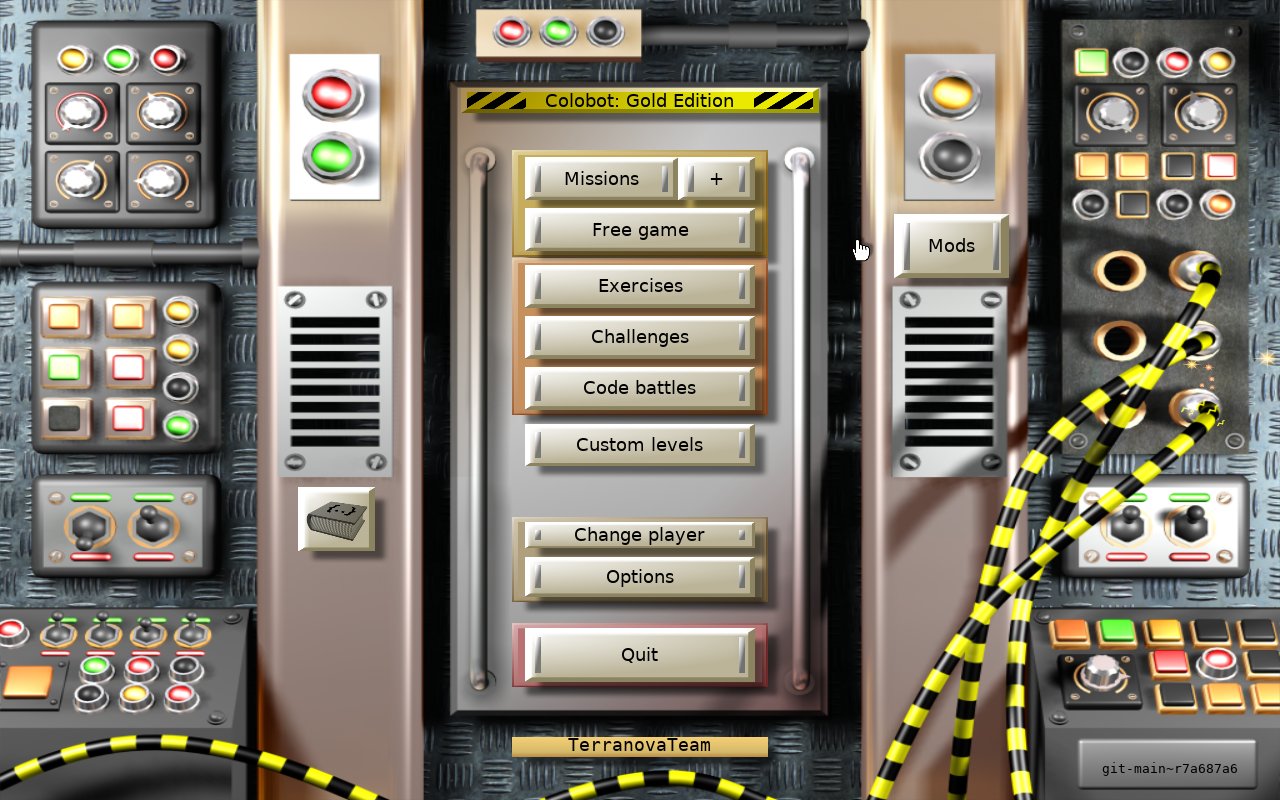
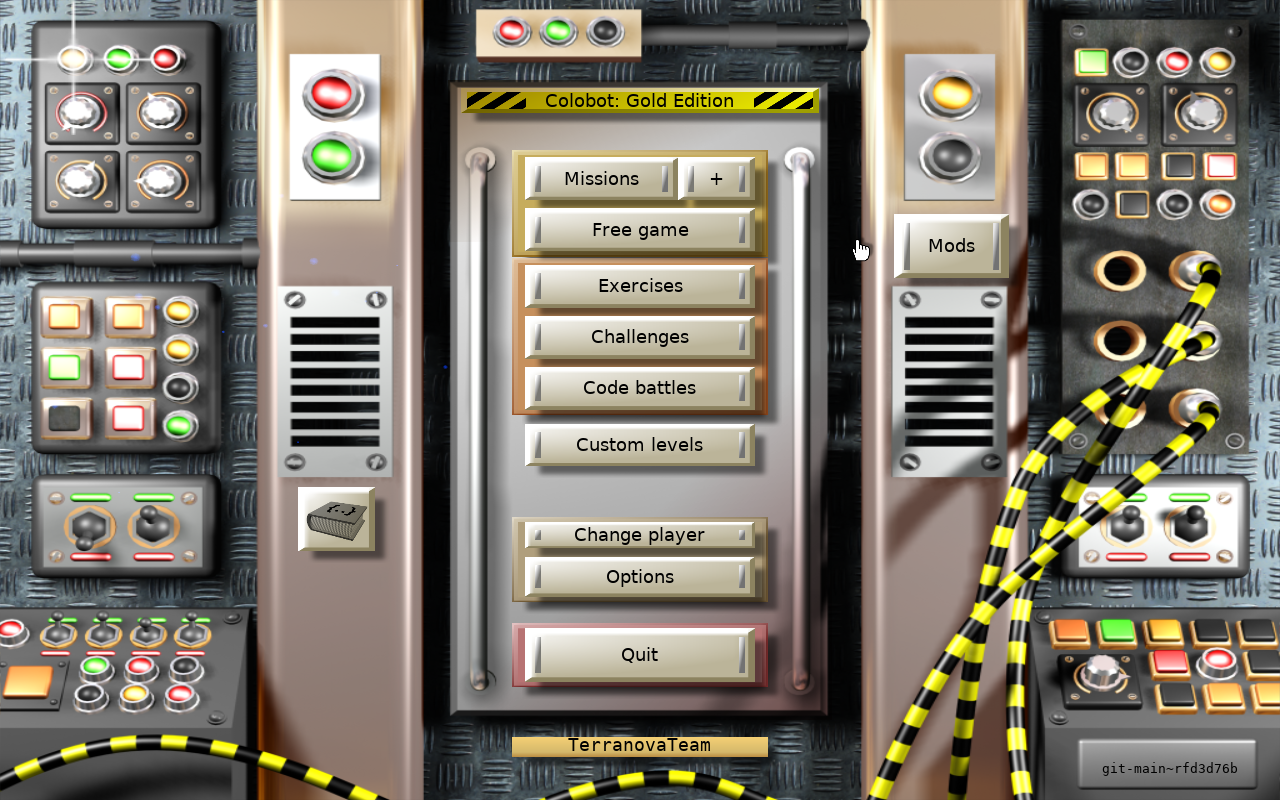
docs: WP13 load-speed before/after, Gemini suggestions triage, screenshots

diff --git a/docs/optimization-suggestions-gemini.md b/docs/optimization-suggestions-gemini.md
@@ -1,0 +1,123 @@
+A detailed implementation plan has been written to the [optimization plan artifact](local-file). Below is the prioritized analysis and concrete optimization plan for the Colobot browser port.
+
+---
+
+# Colobot Web: Prioritized Performance Optimization Plan
+
+### 1. Bypass Blank 9-Second Welcome Sequence (`CScreenWelcome`) on Web
+* **What**: On `__EMSCRIPTEN__`, immediately bypass or auto-dismiss `CScreenWelcome` to transition directly to the player dialog and main menu. Currently, the engine runs three consecutive 3.0-second welcome screens that draw no splash image (because `intro*.png` was omitted from data packaging in [`build.mjs`](../tools/build-data/build.mjs#L80)) while swallowing user input.
+* **Why**: **Direct reduction of ~8,500 ms** in time-to-interactive menu (drops from ~9.5 s to ~1.0 s). 0 bytes transferred.
+* **Exact files**: [`src/colobot-base/src/app/app.cpp`](../src/colobot-base/src/app/app.cpp#L1040-L1150), `src/colobot-base/src/ui/screen/screen_welcome.cpp`
+* **Risk**: **Very low**. The splash images are already excluded from the web distribution; `CScreenWelcome` is an empty delay on the web.
+
+---
+
+### 2. Lean `boot.pak` Layout: Evict Non-Essential Menu Assets
+* **What**: Restrict `boot.pak` strictly to assets required for first paint and the initial player dialog / main menu screen (fonts, cursor, core UI skin, button icons, essential shaders). Move level preview images (`levels/*/*.png`, thumbnails) and secondary interface art into loose files or level packs.
+* **Why**: Shrinks `boot.pak` from **9.3 MB down to ~2.0–2.5 MB** (~70% reduction, saving **~7 MB raw / ~2.5 MB gzipped**). On a standard 30 Mbps connection, this shaves **~600–1,200 ms** off the download and `DecompressionStream` decompression pipeline, directly advancing time-to-first-paint.
+* **Exact files**: [`tools/build-data/build.mjs`](../tools/build-data/build.mjs#L78-L96)
+* **Risk**: **Low**. If an asset removed from `boot.pak` is accessed later, [`web_archiver.c`](../src/colobot-base/src/common/resources/web_archiver.c#L116-L137) falls back to fetching it on demand from the manifest.
+
+---
+
+### 3. Pre-compress Assets & Wasm with Brotli (.br) Beside/Instead of Gzip
+* **What**: Pre-compress `colobot.wasm`, `boot.pak`, and loose files with Brotli (`brotli -q 11` or Node `zlib.brotliCompressSync`) during data assembly. Serve with `Content-Encoding: br` in static server configs / `_headers`, and fall back to `DecompressionStream('deflate-raw')` or gzip if needed.
+* **Why**: Brotli q11 provides 15–25% higher compression ratio over gzip -9 on Wasm and archive data. Saves **~400 KB** on `colobot.wasm` (1.6 MB -> ~1.2 MB) and **~600 KB–1 MB** on `boot.pak`, saving **~200–500 ms** in wire transfer time on cold loads.
+* **Exact files**: [`tools/build-data/build.mjs`](../tools/build-data/build.mjs#L129-L135), [`scripts/assemble-dist.sh`](../scripts/assemble-dist.sh), [`web/loader.js`](../web/loader.js#L64-L68), [`web/_headers`](../web/_headers#L5-L10)
+* **Risk**: **Very low**. Every modern browser supporting WebGPU and JSPI supports Brotli and `DecompressionStream`.
+
+---
+
+### 4. HTML Preload Hints for Startup Critical Path
+* **What**: Add `<link rel="modulepreload" href="loader.js">`, `<link rel="modulepreload" href="colobot.js">`, `<link rel="preload" href="colobot.wasm" as="fetch" crossorigin>`, `<link rel="preload" href="data/boot.pak.gz" as="fetch" crossorigin>`, and `<link rel="preload" href="data/manifest.json" as="fetch" crossorigin>` directly to `<head>` in `index.html`.
+* **Why**: Eliminates sequential discovery delay where the browser parses HTML, fetches `loader.js`, executes it, and only then starts the downloads for Wasm and data packs. Saves **~150–350 ms** (1 network RTT + JS parse time) on time-to-first-paint.
+* **Exact files**: [`web/index.html`](../web/index.html#L3-L8)
+* **Risk**: **None**. Standard declarative resource hints.
+
+---
+
+### 5. Fix Service Worker Manifest-Blocking Fetch on Data Requests
+* **What**: In `web/sw.js`, `loadHashes()` intercepts data requests and performs `await fetch('data/manifest.json', { cache: 'no-cache' })` over the network before allowing any `/data/*` request to proceed. Refactor `sw.js` to either precache/inline hashes during SW activation or stream asset requests without waiting on `manifest.json`.
+* **Why**: Removes a blocking **~50–200 ms** network round-trip on cold start and offline loads. Avoids SW interception stall on initial `boot.pak.gz` download.
+* **Exact files**: [`web/sw.js`](../web/sw.js#L6-L20)
+* **Risk**: **Low to medium**. Requires verifying cache invalidation when deploying new manifest versions.
+
+---
+
+### 6. Compiler Optimization Profile: `-Oz`, `-flto`, and Closure Compiler
+* **What**: Enable `COLOBOT_WEB_LTO=ON`, switch `COLOBOT_WEB_OPT` from `-O3` to `-Oz` (or `-Os`), and enable `COLOBOT_WEB_CLOSURE=ON` (`--closure 1`) in `CMakeLists.txt`.
+* **Why**: `-Oz` + `-flto` reduces Wasm binary size by **20–35%** (saving **1.0–1.5 MB uncompressed**, **~300–500 KB compressed**), while Closure shrinks `colobot.js` glue code by **~50–100 KB**. Decreases initial download time by **~150–400 ms** and speeds up V8 Liftoff / TurboFan compilation and memory usage.
+* **Exact files**: [`CMakeLists.txt`](../CMakeLists.txt#L34-L59), [`CMakeLists.txt`](../CMakeLists.txt#L84-L86)
+* **Risk**: **Low to medium**. Longer link times; must verify that `-Oz` does not adversely degrade CPU-heavy CBot simulation or physics loops compared to `-O3`.
+
+---
+
+### 7. Match System Preferred Canvas Format (`bgra8unorm`)
+* **What**: Accurately detect and apply `navigator.gpu.getPreferredCanvasFormat()` (`bgra8unorm` on macOS and most Chromium platforms) in [`wgpu_device.cpp`](../src/colobot-base/src/graphics/webgpu/wgpu_device.cpp#L228-L237) and align framebuffer targets.
+* **Why**: Resolves Chrome warning: *"Canvas format 'rgba8unorm' is not the preferred canvas format 'bgra8unorm' for this system; an extra format conversion copy will occur every frame"*. Eliminates a full-frame GPU blit/conversion copy on **every frame**, saving **~0.3–0.8 ms per frame** at 1080p and **~1.5–2.0 ms per frame** at retina/4K resolutions.
+* **Exact files**: [`src/colobot-base/src/graphics/webgpu/wgpu_device.cpp`](../src/colobot-base/src/graphics/webgpu/wgpu_device.cpp#L228-L237), [`src/colobot-base/src/graphics/webgpu/wgpu_framebuffer.cpp`](../src/colobot-base/src/graphics/webgpu/wgpu_framebuffer.cpp#L50-L56)
+* **Risk**: **Low**. Must verify that pipeline fragment color formats and offscreen swapchain targets match `SurfaceFormat()`.
+
+---
+
+### 8. GPU-Accelerated Mipmap Generation (Replace CPU Box-Filter Downsampling)
+* **What**: In [`wgpu_texture.cpp`](../src/colobot-base/src/graphics/webgpu/wgpu_texture.cpp#L120-L135), replace `DownsampleRGBA` (a software 4-tap CPU box filter loop that calls `m_queue.WriteTexture` per mip level) with a GPU render pass using a fullscreen triangle and hardware bilinear filtering to downsample mip $N$ into mip $N+1$.
+* **Why**: Texture upload and mip generation time drops from **10–50 ms per 1024x1024 texture on CPU to < 0.2 ms on GPU**. For mission loading (which loads dozens of terrain and object textures), this shaves **~300–800 ms** in `CRobotMain::CreateScene` and eliminates heap churn in `std::vector<uint8_t>`.
+* **Exact files**: [`src/colobot-base/src/graphics/webgpu/wgpu_texture.cpp`](../src/colobot-base/src/graphics/webgpu/wgpu_texture.cpp#L120-L135), [`src/colobot-base/src/graphics/webgpu/wgpu_texture.h`](../src/colobot-base/src/graphics/webgpu/wgpu_texture.h), [`src/colobot-base/src/graphics/webgpu/wgpu_util.cpp`](../src/colobot-base/src/graphics/webgpu/wgpu_util.cpp#L183-L205)
+* **Risk**: **Low**. Textures must be created with `wgpu::TextureUsage::RenderAttachment` (already enabled for mips).
+
+---
+
+### 9. Prewarm WebGPU Render Pipelines Ahead of Gameplay
+* **What**: Add an explicit `Prewarm()` method in [`CWebGPUPipelineCache`](../src/colobot-base/src/graphics/webgpu/wgpu_pipeline_cache.h#L67-L79) and invoke it during device creation or during the mission loading screen. Compile the standard combinations of `PipelineKey` (UI blend/alpha, terrain default, object diffuse + shadow, particle additive/blend) before the first frame runs.
+* **Why**: `device.CreateRenderPipeline` is synchronous and takes **10–50 ms per pipeline**. Prewarming eliminates severe **100–300 ms frame drops / hitching** when the first 3D objects, terrain tiles, shadows, and particles appear on screen.
+* **Exact files**: [`src/colobot-base/src/graphics/webgpu/wgpu_pipeline_cache.h`](../src/colobot-base/src/graphics/webgpu/wgpu_pipeline_cache.h), [`src/colobot-base/src/graphics/webgpu/wgpu_pipeline_cache.cpp`](../src/colobot-base/src/graphics/webgpu/wgpu_pipeline_cache.cpp), [`src/colobot-base/src/graphics/webgpu/wgpu_device.cpp`](../src/colobot-base/src/graphics/webgpu/wgpu_device.cpp#L270-L280)
+* **Risk**: **Very low**. Compiles existing pipelines slightly earlier during idle/loading rather than just-in-time during draw calls.
+
+---
+
+### 10. Eliminate Loose-File JSPI Cascades During Level Load
+* **What**: In [`tools/build-data/build.mjs`](../tools/build-data/build.mjs#L136-L145), avoid splitting level/chapter assets into loose files simply because they exceed `LOOSE_MIN` (64 KiB). Keep chapter models and textures inside `lvl-<mission>-<chapter>.pak`. In [`web_archiver.c`](../src/colobot-base/src/common/resources/web_archiver.c#L116-L137), implement parallel prefetching for chapter packs prior to `CreateScene`.
+* **Why**: When loading a mission, the engine currently suspends via JSPI on dozens of individual loose file `openRead` calls sequentially. Bundling them into the chapter pack turns a **1,500–3,000 ms serial network latency waterfall** into a single streamed HTTP download.
+* **Exact files**: [`tools/build-data/build.mjs`](../tools/build-data/build.mjs#L136-L145), [`src/colobot-base/src/common/resources/web_archiver.c`](../src/colobot-base/src/common/resources/web_archiver.c#L49-L78), [`web/loader.js`](../web/loader.js#L143-L148)
+* **Risk**: **Low to medium**. Must ensure chapter pack sizes remain below Cloudflare's 25 MiB file threshold.
+
+---
+
+### 11. Native Response Streaming for Wasm Liftoff Compilation & Caching
+* **What**: In `web/loader.js`, pass the native `fetch('colobot.wasm')` `Response` directly to `WebAssembly.instantiateStreaming(resp, imports)` without wrapping it in a custom JS `new ReadableStream`. Use a `TransformStream` or alternative byte estimator for the loading bar.
+* **Why**: Custom JS `ReadableStream` wrapping triggers an `ERR_ABORTED` in Chromium network logs, defeats V8's native C++ streaming decoder (preventing Liftoff from compiling bytecode concurrently while downloading), and prevents Chromium from storing the compiled module in the HTTP code cache. Shaves **~200–400 ms** compile latency on first run and achieves near-instant compilation on reload.
+* **Exact files**: [`web/loader.js`](../web/loader.js#L21-L38), [`web/loader.js`](../web/loader.js#L89-L94)
+* **Risk**: **Low**. Requires adjusting the progress bar calculation for the Wasm portion.
+
+---
+
+### 12. WebP Texture Compression for 3D Models & Environments
+* **What**: In `tools/build-data/build.mjs`, convert large PNG textures (models, textures, backgrounds) to WebP (lossless for interface, high-quality lossy q85 for 3D textures). Decode in engine via `createImageBitmap` in JS or `stb_image` / `libwebp`.
+* **Why**: Reduces texture asset footprint across `models.pak`, `common.pak`, and loose files by **40–60%** (saving **10–15 MB** across the game, and **~4–8 MB** on mission 1 load). Reduces network transfer time and memory footprint.
+* **Exact files**: [`tools/build-data/build.mjs`](../tools/build-data/build.mjs#L55-L72), [`src/colobot-base/src/common/image.cpp`](../src/colobot-base/src/common/image.cpp), [`web/loader.js`](../web/loader.js)
+* **Risk**: **Medium**. Requires updating image loaders to support WebP decoding on the web.
+
+---
+
+### 13. Multi-Frame Ring Buffer Staging (Avoid In-Flight Buffer Overwrite Stalls)
+* **What**: In [`wgpu_ring_buffer.cpp`](../src/colobot-base/src/graphics/webgpu/wgpu_ring_buffer.cpp#L48-L62), transition `CWebGPURingBuffer` to a true 2- or 3-frame staging ring. Currently, `BeginFrame()` resets `chunk->used = 0` every frame, causing `WriteBuffer(chunk->buffer, 0, ...)` to write to offset 0 while the previous frame may still be in-flight in the GPU queue.
+* **Why**: Prevents WebGPU driver pipeline stalls and eliminates internal shadow copies in Blink/Dawn. Also, only flushing dirty subranges in `Flush()` avoids repeatedly transferring up to 5 MB across the CPU-GPU boundary, saving **~0.5–1.0 ms CPU/GPU sync time per frame**.
+* **Exact files**: [`src/colobot-base/src/graphics/webgpu/wgpu_ring_buffer.h`](../src/colobot-base/src/graphics/webgpu/wgpu_ring_buffer.h#L40-L70), [`src/colobot-base/src/graphics/webgpu/wgpu_ring_buffer.cpp`](../src/colobot-base/src/graphics/webgpu/wgpu_ring_buffer.cpp#L48-L99), [`src/colobot-base/src/graphics/webgpu/wgpu_device.cpp`](../src/colobot-base/src/graphics/webgpu/wgpu_device.cpp#L406-L420)
+* **Risk**: **Low**. Standard double/triple buffering ring pattern.
+
+---
+
+### 14. WebGPU State Caching & Redundant Bind Group Elimination
+* **What**: In [`wgpu_pass_manager.cpp`](../src/colobot-base/src/graphics/webgpu/wgpu_pass_manager.cpp#L87-L100) and renderers ([`wgpu_object_renderer.cpp`](../src/colobot-base/src/graphics/webgpu/wgpu_object_renderer.cpp#L404-L418)), cache the currently bound pipeline handle, dynamic uniform offsets, and bind group handles (e.g. `group(0)` scene bindings). Skip redundant calls to `pass.SetPipeline` and `pass.SetBindGroup`.
+* **Why**: In frames with many objects and terrain draws, eliminates hundreds of redundant WebGPU command encoding and validation calls, saving **~0.8–1.5 ms CPU time per frame** in the render loop.
+* **Exact files**: [`src/colobot-base/src/graphics/webgpu/wgpu_pass_manager.h`](../src/colobot-base/src/graphics/webgpu/wgpu_pass_manager.h), [`src/colobot-base/src/graphics/webgpu/wgpu_pass_manager.cpp`](../src/colobot-base/src/graphics/webgpu/wgpu_pass_manager.cpp), [`src/colobot-base/src/graphics/webgpu/wgpu_object_renderer.cpp`](../src/colobot-base/src/graphics/webgpu/wgpu_object_renderer.cpp#L404-L418), [`src/colobot-base/src/graphics/webgpu/wgpu_ui_renderer.cpp`](../src/colobot-base/src/graphics/webgpu/wgpu_ui_renderer.cpp#L189-L219)
+* **Risk**: **Very low**. Simple state equality check before issuing encoding commands.
+
+---
+
+### 15. Binaryen `wasm-split` for Deferred Game Subsystems
+* **What**: Integrate Binaryen's `wasm-split` into the build process to divide `colobot.wasm` into a primary module (engine core, renderer, UI, menu, audio) and a secondary module (CBot compiler/interpreter, script debugger, level editor, physics sub-solvers). Load the secondary module asynchronously in the background via `loadSplitModule`.
+* **Why**: Reduces the initial `colobot.wasm` binary from **4.6 MB down to ~2.0–2.5 MB** (~50% reduction in initial Wasm payload), cutting initial download and compilation time by **~200–400 ms** on cold boot.
+* **Exact files**: [`CMakeLists.txt`](../CMakeLists.txt#L64-L91), [`scripts/assemble-dist.sh`](../scripts/assemble-dist.sh), [`web/loader.js`](../web/loader.js#L89-L95)
+* **Risk**: **High**. Requires profiling instrumented symbol call graphs to ensure no secondary module code is invoked synchronously before the split module has resolved.

diff --git a/docs/STATUS.md b/docs/STATUS.md
@@ -6,9 +6,10 @@
 
 ```sh
 make -C build-web -j8                                  # wasm (see README)
-node tools/build-data/build.mjs --out .data-out        # data, kept outside dist/
+node tools/build-data/build.mjs --out .data-out --music  # data (needs oxipng, oggenc), kept outside dist/
 scripts/assemble-dist.sh build-web .data-out
-node tests/e2e/boot.mjs --wait 11 --click              # menu: waits out welcome, clicks OK on player dialog
+node tests/e2e/boot.mjs --wait 4 --click               # menu: clicks OK on player dialog (welcome skipped on web)
+node tests/e2e/boot.mjs --wait 6 --click --throttle 50  # same over emulated 50 Mbit/s (CDP)
 node tests/e2e/boot.mjs --wait 25 --query runscene=missions101
 ```
 
@@ -39,11 +40,63 @@ node tests/e2e/boot.mjs --wait 25 --query runscene=missions101
 - Mouse and keyboard input work. Hover, tooltips and button clicks all work.
 - **Resize loop fixed.** Previously `loader.js` and SDL's resizable-window handler both wrote `canvas.width/height`, so the resolution jumped. Now JS is the single owner (CSS 100vw/100vh, backing = CSS x dpr, `resize` + `ResizeObserver`). On web the SDL window is not resizable. `CApplication::SyncCanvasSize()` reads the canvas size each frame and reconfigures the device, and `ChangeVideoConfig` ignores requested sizes on web. Tested at dpr 2 with mid-run viewport changes: 2560x1600 -> 2000x1400, stable.
 
+## WP13 / M3 — load speed (2026-11-02)
+
+Harness (`tests/e2e/boot.mjs`) now counts bytes the server actually sent (`served[]`, wire bytes),
+emulates Cloudflare edge brotli for js/json/wasm (`--no-br` to disable), polls every 100 ms,
+supports `--throttle MBPS` (CDP `Network.emulateNetworkConditions`, 20 ms RTT) and reports
+`longFrames` (frames > 50 ms).
+
+| metric | before | after |
+| --- | --- | --- |
+| first frame, localhost | ~1.06 s (1 s poll) | 0.51 s |
+| first frame, 50 Mbit/s | 3.08 s (no br) | 1.54 s (no br), 1.20 s (br) |
+| main menu interactive | ~9.5 s (3x3 s welcome) + click | at first frame (player dialog) + click |
+| bytes before first frame | 14.2 MB raw (wasm 4.6, boot.pak 9.3) | 5.8 MB wire (wasm 3.68 MB / 1.25 MB br, boot.pak.gz 2.94 MB, manifest 75 KB br) |
+| bytes to main menu | 28.8 MB (intro.pak 7.0, sounds.pak 7.2 MB) | ~19 MB, of which 8.5 MB is menu music fetched in the background + low-priority prefetch of models/common (6.4 MB); sounds per file (4–20 KB each) |
+| mission 1 total | ~45 MB | 14.2 MB; first frame 2.09 s at 50 Mbit/s |
+| wasm | 4.60 MB (O3) | 3.68 MB (-Oz); 60 fps in mission 1 either way |
+
+What changed:
+
+- **Data layout** (`build.mjs`): `boot.pak` 9.3 -> 4.05 MB (`generico.png` 2.5 MB is the quit/credits screen only, `icons/` 2.3 MB are SatCom help images; `*.svg` dropped), plus `boot.pak.gz` 2.94 MB that `loader.js` inflates with `DecompressionStream` (Cloudflare does not compress `application/octet-stream`). Sounds, intro, icons, music and any non-boot file >= 64 KiB are loose files; small files stay in packs. PNGs via `oxipng -o 3` (lossless). Sounds are Ogg Vorbis inside `.wav` names (`vorbis_wav_reader` sniffs `RIFF`/`OggS`): 7.2 -> 1.1 MB; `--sounds-wav` turns it off.
+- **Welcome screens skipped on web** (`CController::StartApp`).
+- **Music**: built with `--music` (loose, 21 files). `CALSound` never blocks a frame on music: if the bytes are not resident it starts a background fetch (`web_fs_ready`) and plays from `FrameMove`; files missing from the manifest are skipped silently (no 3 s retry spam). Intro2 is fetched only after Intro1.
+- **Archiver**: one in-flight fetch per pack/file, `prefetch()` with `priority: 'low'`; `loader.js` prefetches `models` and `common` ~3 s after the first frame (skipped with Save-Data). `sw.js` caches by manifest sha256 (incl. `boot.pak.gz`), revalidates misses (`cache: 'no-cache'`) and never blocks a data request on the manifest.
+- **Preload hints** in `index.html`: downloads start at ~35 ms instead of ~60 ms.
+- **wasm streaming**: the native `Response` goes to `instantiateStreaming` (progress read from a clone), so streaming compile and the code cache work again (this was the `ERR_ABORTED`).
+- **Canvas format**: surface uses the preferred format (bgra8unorm, first in surface capabilities); offscreen color framebuffers follow it, so the per-frame conversion copy and Chrome warning are gone.
+- **Bug fixed**: `wgpu::RenderPassDescriptor::colorAttachmentCount` has no default initializer in `webgpu_cpp.h`; depth-only (shadow) passes sent garbage. It happened to be 0 at -O3 and crashed mission 1 at -Oz and with LTO.
+
+Compiler profiles measured (wasm / brotli-5): -O3 4.60 / 1.43 MB; -Oz 3.68 / 1.25 MB; LTO -O3 5.32 / 1.52 MB; LTO -Os 4.28 / 1.37 MB; LTO -Oz 3.80 / 1.27 MB. Default is now -Oz without LTO (`COLOBOT_WEB_OPT`, `COLOBOT_WEB_LTO`). `--closure 1` (`COLOBOT_WEB_CLOSURE`) fails with a Closure internal error on the ES-module output (`JSC_ILLEGAL_MODULE_RENAMING_CONFLICT`, Java 21 required) and stays off; the JS glue is 57 KB br anyway. wasm-opt already runs inside emcc at -O2+.
+
+Brotli: Cloudflare Workers static assets do not serve precompressed `.br` siblings; the edge compresses js/json/wasm itself, so no `.br` files ship. Only `boot.pak` needs help (gzip twin above).
+
+Pipeline prewarm: not needed for now. Mission 1 has no frame > 50 ms. The menu has one ~330 ms frame right after the first frame (texture loading in `LoadAllTextures`, not pipelines).
+
+### Gemini 3.8 Flash suggestions (`docs/optimization-suggestions-gemini.md`)
+
+| # | item | status |
+| --- | --- | --- |
+| 1 | skip welcome sequence | implemented: menu reachable ~9 s earlier |
+| 2 | lean boot.pak | implemented: 9.3 -> 4.05 MB (2.94 MB gz). Level previews are tiny (78 KB) and stay |
+| 3 | precompressed brotli | partly: CF serves no `.br` siblings and compresses js/json/wasm at the edge; boot.pak gets a gzip twin (-1.3 MB) |
+| 4 | preload hints | implemented: critical fetches start ~25 ms earlier |
+| 5 | SW blocks data on manifest | partly valid: first visit is not SW-controlled, but a cold SW did await the manifest. Now races and falls through to the network |
+| 6 | -Oz / LTO / closure | -Oz implemented (-0.92 MB, -0.18 MB br). LTO rejected (larger in every profile). Closure blocked (compiler error) |
+| 7 | preferred canvas format | implemented |
+| 8 | GPU mipmaps | deferred: mission 1 shows no long frames; load-time win not measured yet |
+| 9 | pipeline prewarm | deferred: no shader stalls visible (see above) |
+| 10 | keep big level files in packs | rejected: mission 1 fetches only 6 loose files (all issued by ~1.45 s); no serial waterfall seen |
+| 11 | native Response for instantiateStreaming | implemented (valid: the JS-wrapped stream blocked streaming compile and the code cache) |
+| 12 | WebP textures | rejected for now: the emscripten `sdl2_image` port has no libwebp, so `formats=webp` cannot build. oxipng (lossless) is used instead |
+| 13 | ring buffer overwrites in-flight data | rejected: claim is wrong. The ring has a CPU staging copy flushed once per frame with `queue.WriteBuffer`, which is queue-ordered (no in-flight hazard), and it already writes only `used` bytes |
+| 14 | redundant SetPipeline/SetBindGroup | deferred: per-frame CPU, not load time; mission runs at 60 fps |
+| 15 | wasm-split | deferred: high risk, wasm already 1.25 MB br |
+
 ## Known issues / TODO
 
-- The welcome screens (`CScreenWelcome`, 3 x 3 s) draw no splash image: the player dialog shows underneath, yet the first input during that window is swallowed by the welcome screen. Likely the background/over-color path of the UI renderer.
-- No music: `build-data` was run without `--music`, so `music/Intro*.ogg` is missing and the engine retries every 3 s, which floods the log.
+- Welcome screens are skipped on web. On desktop builds they still draw no splash image (likely the background/over-color path of the UI renderer).
 - With `runscene` and no existing player: `Unable to write ... savegame/Player/research.gam` (the directory was never created). This is harmless.
-- Playwright reports `colobot.wasm`/`boot.pak` as `ERR_ABORTED`. The data does arrive: `loader.js` re-wraps the stream. Byte counts above come from file sizes.
-- Chrome warns that the canvas format is not the preferred one (`bgra8unorm`), which costs an extra copy.
+- Data names are not content-addressed; `/data/*` is `immutable` in `_headers`. The SW revalidates on a hash miss, but a client without the SW could see a stale pack after a deploy. Hashed URLs would fix it.
 - Debug build variant not needed so far.
